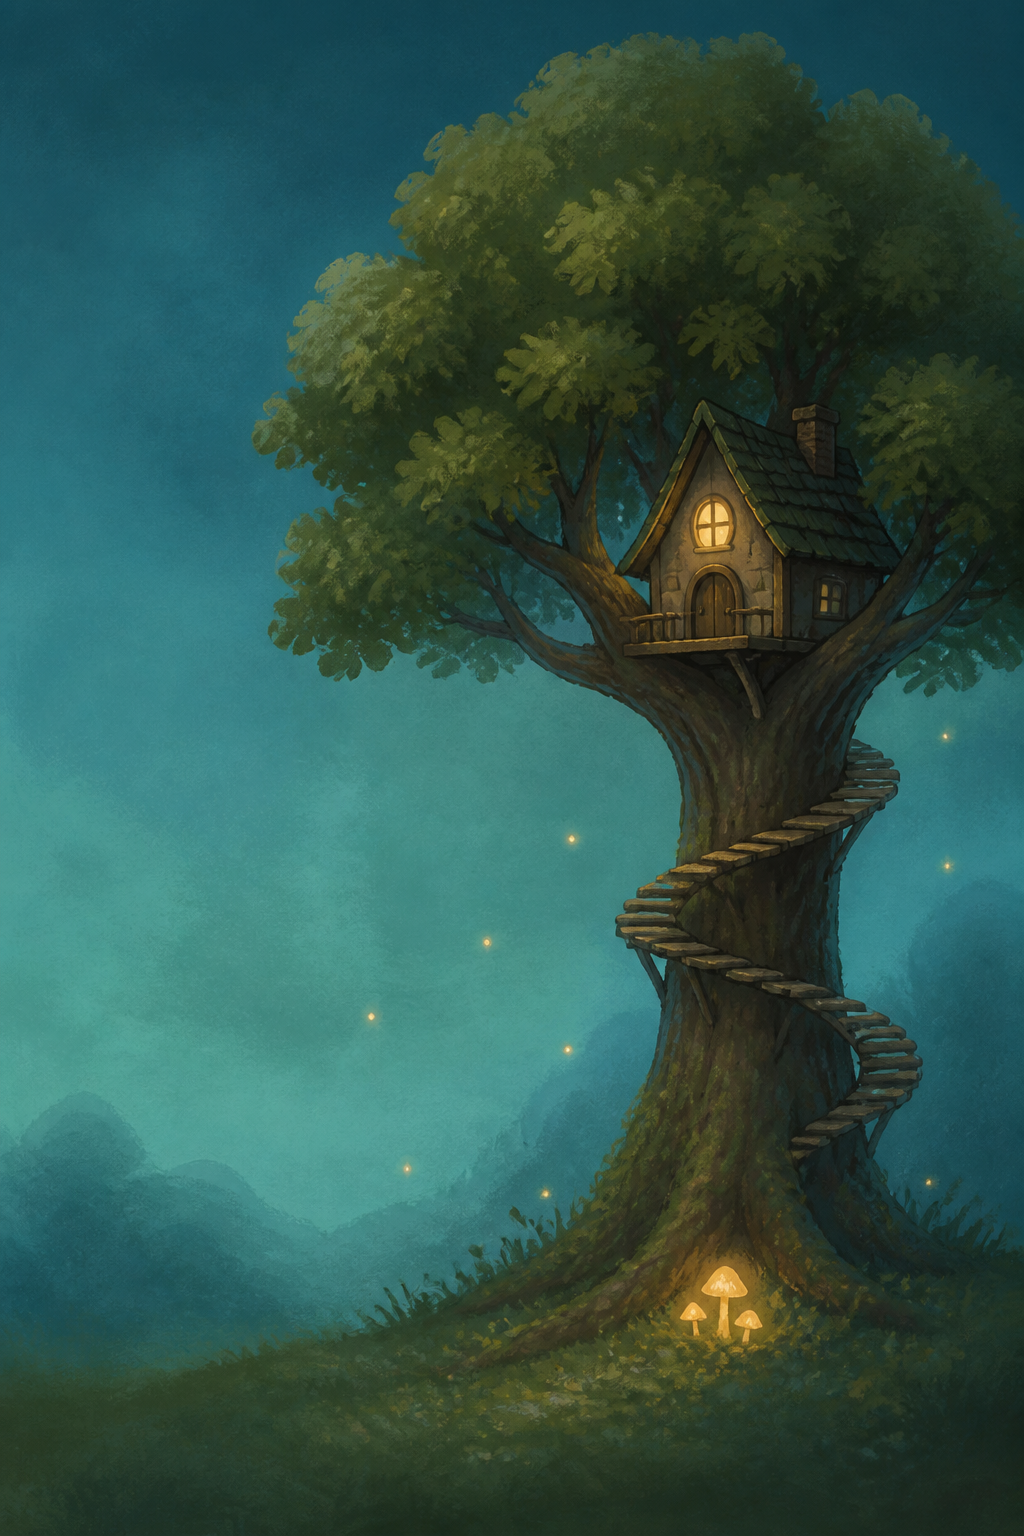
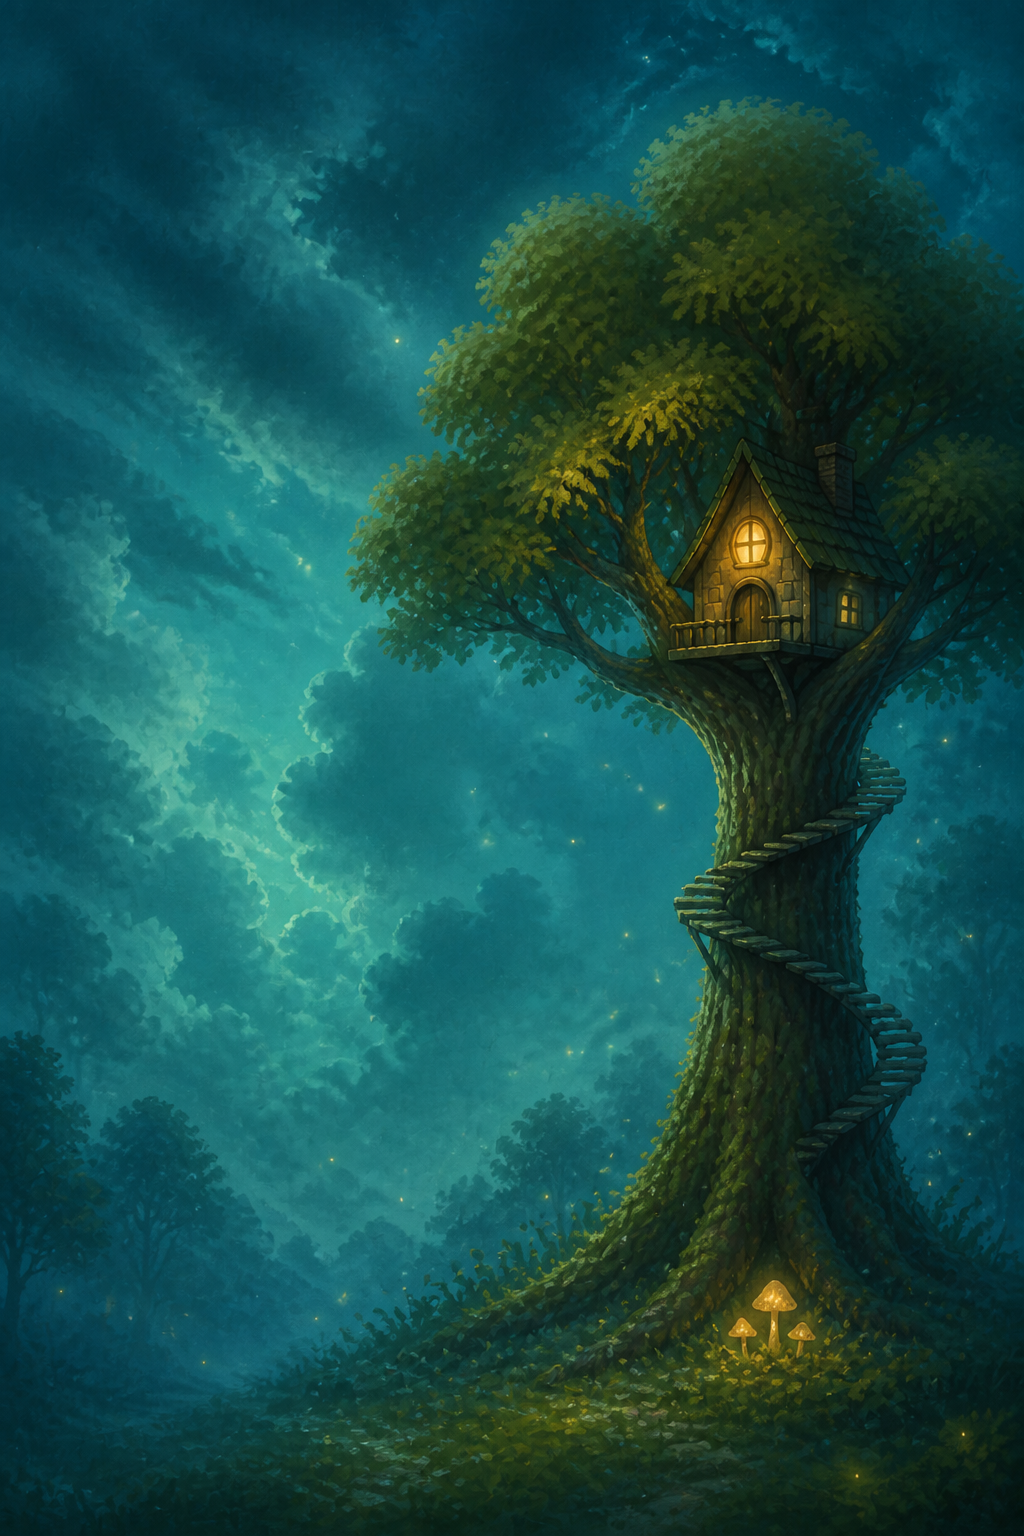
Match the studio to richer page paintings
Replace the world plates with stronger cinematic illustrations and use each page as a blurred backdrop so the space around the book continues the same scene.

diff --git a/src/style.css b/src/style.css
@@ -52,27 +52,63 @@ body {
 
 .studio-wash {
   background:
-    radial-gradient(ellipse 48% 55% at 22% 42%, var(--glow-left, rgba(196, 90, 18, 0.2)), transparent 62%),
-    radial-gradient(ellipse 48% 55% at 78% 42%, var(--glow-right, rgba(29, 107, 92, 0.22)), transparent 62%),
+    radial-gradient(ellipse 52% 60% at 22% 42%, var(--glow-left, rgba(224, 112, 48, 0.38)), transparent 68%),
+    radial-gradient(ellipse 52% 60% at 78% 42%, var(--glow-right, rgba(28, 107, 102, 0.38)), transparent 68%),
     radial-gradient(ellipse 90% 80% at 50% 100%, #05040a, transparent 55%);
   transition: background 900ms ease;
+  z-index: 0;
+}
+
+.world-skies {
+  position: absolute;
+  inset: 0;
+  z-index: 1;
+  pointer-events: none;
+  overflow: hidden;
+}
+
+.world-sky {
+  position: absolute;
+  top: -14%;
+  bottom: -14%;
+  width: 72%;
+  background-size: cover;
+  background-position: center;
+  filter: blur(36px) saturate(1.3) brightness(0.72);
+  transform: scale(1.18);
+  opacity: 0.9;
+  transition: background-image 1s ease;
+}
+
+.sky-left {
+  left: -14%;
+  -webkit-mask-image: linear-gradient(90deg, #000 32%, transparent 90%);
+  mask-image: linear-gradient(90deg, #000 32%, transparent 90%);
+}
+
+.sky-right {
+  right: -14%;
+  -webkit-mask-image: linear-gradient(90deg, transparent 10%, #000 68%);
+  mask-image: linear-gradient(90deg, transparent 10%, #000 68%);
 }
 
 .studio-light {
+  z-index: 2;
   background:
-    radial-gradient(ellipse 46% 30% at 50% 16%, rgba(255, 236, 196, 0.12), transparent 70%),
-    radial-gradient(ellipse 28% 20% at 50% 48%, rgba(255, 214, 140, 0.08), transparent 70%);
+    radial-gradient(ellipse 46% 30% at 50% 16%, rgba(255, 236, 196, 0.08), transparent 70%),
+    radial-gradient(ellipse 28% 20% at 50% 48%, rgba(255, 214, 140, 0.05), transparent 70%);
 }
 
 .studio-floor {
+  z-index: 2;
   background:
-    radial-gradient(ellipse 58% 18% at 50% 80%, rgba(0, 0, 0, 0.58), transparent 70%),
-    linear-gradient(180deg, transparent 56%, rgba(8, 7, 12, 0.9) 100%);
+    radial-gradient(ellipse 58% 18% at 50% 80%, rgba(0, 0, 0, 0.45), transparent 70%),
+    linear-gradient(180deg, transparent 62%, rgba(8, 7, 12, 0.72) 100%);
 }
 
 .studio-vignette {
   z-index: 12;
-  background: radial-gradient(ellipse 80% 74% at 50% 46%, transparent 46%, #030208 100%);
+  background: radial-gradient(ellipse 88% 80% at 50% 46%, transparent 54%, #030208 100%);
 }
 
 .studio-grain {

diff --git a/src/worlds.js b/src/worlds.js
@@ -1,4 +1,4 @@
-const asset = (path) => `${import.meta.env.BASE_URL}${path}`;
+const asset = (path) => `${import.meta.env.BASE_URL}${path}?v=4`;
 
 export const WORLDS = [
   {
@@ -6,42 +6,42 @@ export const WORLDS = [
     src: asset("worlds/dragon-kingdom.png"),
     alt: "Dragon Kingdom",
     kind: "embers",
-    tint: "#c45a12",
+    tint: "#e07030",
   },
   {
     id: "forest",
     src: asset("worlds/enchanted-forest.png"),
     alt: "Enchanted Forest",
     kind: "leaves",
-    tint: "#1d6b5c",
+    tint: "#1c6b66",
   },
   {
     id: "castle",
     src: asset("worlds/floating-castle.png"),
     alt: "Floating Castle",
     kind: "sparkles",
-    tint: "#d4a054",
+    tint: "#e0b45a",
   },
   {
     id: "underwater",
     src: asset("worlds/underwater-kingdom.png"),
     alt: "Underwater Kingdom",
     kind: "bubbles",
-    tint: "#1a6a8a",
+    tint: "#2a88a8",
   },
   {
     id: "galaxy",
     src: asset("worlds/galaxy.png"),
     alt: "Galaxy",
     kind: "stars",
-    tint: "#6a3cb8",
+    tint: "#7a48c8",
   },
   {
     id: "garden",
     src: asset("worlds/secret-garden.png"),
     alt: "Secret Garden",
     kind: "petals",
-    tint: "#c47a8a",
+    tint: "#d4899a",
   },
 ];
 

diff --git a/src/main.js b/src/main.js
@@ -14,6 +14,8 @@ const flipBack = document.getElementById("flipBack");
 const leftLeaf = document.getElementById("leftLeaf");
 const rightLeaf = document.getElementById("rightLeaf");
 const fx = new ParticleField(document.getElementById("fx"));
+const skyLeft = document.getElementById("skyLeft");
+const skyRight = document.getElementById("skyRight");
 
 let index = 0;
 let busy = false;
@@ -47,8 +49,10 @@ function applySpread(left, right) {
   studio.dataset.world = left.id;
   studio.dataset.left = left.id;
   studio.dataset.right = right.id;
-  studio.style.setProperty("--glow-left", glow(left.tint, 0.22));
-  studio.style.setProperty("--glow-right", glow(right.tint, 0.22));
+  studio.style.setProperty("--glow-left", glow(left.tint, 0.38));
+  studio.style.setProperty("--glow-right", glow(right.tint, 0.38));
+  skyLeft.style.backgroundImage = `url("${left.src}")`;
+  skyRight.style.backgroundImage = `url("${right.src}")`;
 
   for (const realm of document.querySelectorAll(".realm")) {
     realm.classList.toggle("is-left", realm.classList.contains(`realm-${left.id}`));

diff --git a/index.html b/index.html
@@ -21,6 +21,10 @@
 
     <div class="studio" data-world="dragon" data-left="dragon" data-right="forest" id="studio">
       <div class="studio-wash"></div>
+      <div class="world-skies" aria-hidden="true">
+        <div class="world-sky sky-left" id="skyLeft"></div>
+        <div class="world-sky sky-right" id="skyRight"></div>
+      </div>
       <div class="studio-light"></div>
       <div class="studio-floor"></div>
 
